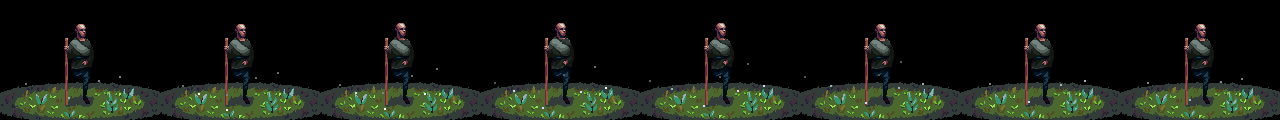
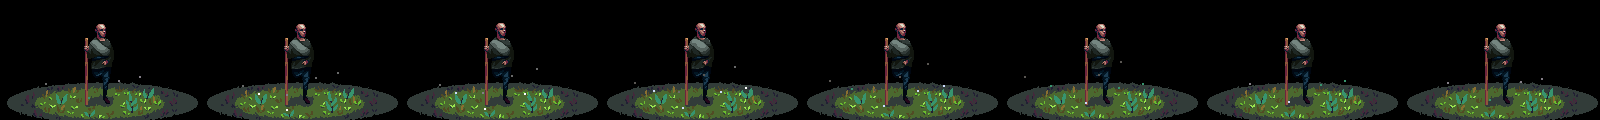
added opening scene

diff --git a/core/src/com/lovely/games/TheFirstGate.java b/core/src/com/lovely/games/TheFirstGate.java
@@ -163,6 +163,7 @@ public class TheFirstGate extends ApplicationAdapter implements Stage {
     private float levelTransitionTimer = 0;
     private boolean leaveLevel = false;
     private StonePrizeScene stonePrizeScene = null;
+    private NewGameScene newGameScene = null;
     private Map<String, Animation<TextureRegion>> guffImages;
     private boolean hasBossLevelSceneDone;
     private Sprite volumePointerSprite;
@@ -171,6 +172,7 @@ public class TheFirstGate extends ApplicationAdapter implements Stage {
     private boolean isHidePlayer;
     private BlockLike currentImageHeight = null;
     private Animation<TextureRegion> openingScene;
+    boolean isPlayingOpeningScene;
 
     @Override
 	public void create () {
@@ -461,7 +463,7 @@ public class TheFirstGate extends ApplicationAdapter implements Stage {
         doorCloseAnim = loadAnimation(assetManager.get("entity/door-open.png"), 6, 0.03f);
         pressureOnAnim = loadAnimation(assetManager.get("entity/pressure-on.png"), 4, 0.02f);
         pressureOffAnim = loadAnimation(assetManager.get("entity/pressure-on.png"), 4, 0.02f);
-        openingScene = loadAnimation(assetManager.get("player-large.png"), 8, 0.1f);
+        openingScene = loadAnimation(assetManager.get("player-large.png"), 8, 0.3f);
         doorCloseAnim.setPlayMode(Animation.PlayMode.REVERSED);
         pressureOffAnim.setPlayMode(Animation.PlayMode.REVERSED);
         guffImages = new HashMap<>();
@@ -479,6 +481,7 @@ public class TheFirstGate extends ApplicationAdapter implements Stage {
         currentSpell = "";
 
         stonePrizeScene = new StonePrizeScene(assetManager);
+        newGameScene = new NewGameScene(openingScene);
 
         font = loadFonts("fonts/kells.fnt");
 
@@ -817,14 +820,14 @@ public class TheFirstGate extends ApplicationAdapter implements Stage {
         updateCameraZoom();
         camera.update();
         batch.setProjectionMatrix(camera.combined);
-        if (!isMenu() || isBrightnessOption()) {
+        if ((!isMenu() || isBrightnessOption()) && !isPlayingOpeningScene) {
             mapRenderer.setView(camera);
             update();
         }
 //        screenFader.update(this);
 	    getInput();
 	    animationDelta = animationDelta + Gdx.graphics.getDeltaTime();
-        if (!isMenu() || isBrightnessOption()) {
+        if ((!isMenu() || isBrightnessOption()) && !isPlayingOpeningScene) {
             renderLightMasks();
         }
 		Gdx.gl.glClearColor(0, 0, 0, 1);
@@ -832,7 +835,7 @@ public class TheFirstGate extends ApplicationAdapter implements Stage {
 
 
 
-        if (!isLevelDirty && (!isMenu() || isBrightnessOption()) && !isViewDirty ) {
+        if (!isLevelDirty && (!isMenu() || isBrightnessOption()) && !isViewDirty && !isPlayingOpeningScene) {
             Vector2 threeDeeLinePos = playerPos.cpy().add(0, 0);
             mapRenderer.render();
             batch.setProjectionMatrix(camera.combined);
@@ -1020,7 +1023,15 @@ public class TheFirstGate extends ApplicationAdapter implements Stage {
             }
             batch.end();
         }
-        if (isMenu() && !isViewDirty) {
+        if (isPlayingOpeningScene) {
+            newGameScene.update(this);
+            batch.setProjectionMatrix(camera.combined);
+            batch.begin();
+            Vector2 pos = new Vector2(camera.position.x - 100, camera.position.y - 100);
+            newGameScene.render(batch, pos);
+            batch.end();
+        }
+        if (isMenu() && !isViewDirty && !isPlayingOpeningScene) {
             batch.setProjectionMatrix(camera.combined);
             batch.begin();
             titleSprite.setPosition(180, 300);
@@ -1555,7 +1566,8 @@ public class TheFirstGate extends ApplicationAdapter implements Stage {
                             startDialog("saveWarning", new DialogVerb("new-game"));
                         } else {
                             soundPlayer.resumeSounds();
-                            gotoState("new-game");
+                            //gotoState("new-game");
+                            startOpeningScene();
                             return;
                         }
                     }
@@ -1648,7 +1660,8 @@ public class TheFirstGate extends ApplicationAdapter implements Stage {
                     String chosenOption = conversation.getCurrentDialog().getChosenOption();
                     if (showSaveWarning) {
                         if (chosenOption.equals("new-game")) {
-                            gotoState("new-game");
+                            //gotoState("new-game");
+                            startOpeningScene();
                         } else {
                             gotoState("menu");
                         }
@@ -1890,6 +1903,7 @@ public class TheFirstGate extends ApplicationAdapter implements Stage {
             }
         } else {
             stonePrizeScene.reset();
+            newGameScene.reset();
         }
     }
 
@@ -1902,6 +1916,14 @@ public class TheFirstGate extends ApplicationAdapter implements Stage {
         screenFader.fadeScreen(inDirection, time, color);
     }
 
+    private void startOpeningScene() {
+        isPlayingOpeningScene = true;
+        isTitleMenu = false;
+        isHidePlayer = true;
+        newGameScene.reset();
+        soundPlayer.playSound("sound/new-game-1.ogg", playerPos);
+    }
+
     @Override
     public void gotoState(String state) {
         if (state.equals("new-game")) {
@@ -1910,9 +1932,10 @@ public class TheFirstGate extends ApplicationAdapter implements Stage {
             isTitleMenu = false;
             isHidePlayer = false;
             startLevel(levels.get(START_LEVEL_NUM), levels.get(START_LEVEL_NUM).getConnection("61"));
-            soundPlayer.playSound("sound/new-game-1.ogg", playerPos);
+
             currentSpell = "";
             saveEverything();
+
         }
         if (state.equals("menu")) {
             isTitleMenu = true;

diff --git a/core/src/com/lovely/games/NewGameScene.java b/core/src/com/lovely/games/NewGameScene.java
@@ -1,0 +1,69 @@
+package com.lovely.games;
+
+import com.badlogic.gdx.Gdx;
+import com.badlogic.gdx.graphics.g2d.Animation;
+import com.badlogic.gdx.graphics.g2d.Sprite;
+import com.badlogic.gdx.graphics.g2d.SpriteBatch;
+import com.badlogic.gdx.graphics.g2d.TextureRegion;
+import com.badlogic.gdx.math.Vector2;
+
+public class NewGameScene {
+
+    public static final float START_TIME_AMOUNT = 3.0f;
+    public static final float MIDDLE_TIME_AMOUNT = 3.0f;
+    public static final float END_TIME_AMOUNT = 2f;
+    public static final float TOTAL_TIME = (END_TIME_AMOUNT + MIDDLE_TIME_AMOUNT + START_TIME_AMOUNT);
+
+    Animation<TextureRegion> standing;
+    Sprite sprite;
+
+    float animTimer;
+    private float alpha;
+    boolean isDone;
+    Vector2 pos;
+
+    public NewGameScene(Animation<TextureRegion> standing) {
+        this.standing = standing;
+        sprite = new Sprite(standing.getKeyFrame(0));
+        sprite.setScale(2.0f);
+    }
+
+    public void reset() {
+        animTimer = 0;
+        sprite.setPosition(0, 0);
+        alpha = 0;
+        isDone = false;
+        pos = new Vector2(0, -40);
+    }
+
+    public void update(TheFirstGate theFirstGate) {
+        if (isDone) {
+            return;
+        }
+        animTimer = animTimer + Gdx.graphics.getDeltaTime();
+        if (animTimer < START_TIME_AMOUNT) {
+            alpha = animTimer / START_TIME_AMOUNT;
+            pos.y = pos.y + (Gdx.graphics.getDeltaTime() * 10f);
+        }
+        if (animTimer >= START_TIME_AMOUNT + MIDDLE_TIME_AMOUNT) {
+            alpha = END_TIME_AMOUNT - ((animTimer - START_TIME_AMOUNT - MIDDLE_TIME_AMOUNT) / END_TIME_AMOUNT);
+            pos.y = pos.y + (Gdx.graphics.getDeltaTime() * 10f);
+        }
+        if (animTimer > TOTAL_TIME) {
+            isDone = true;
+            theFirstGate.isPlayingOpeningScene = false;
+            theFirstGate.gotoState("new-game");
+        }
+    }
+
+    public void render(SpriteBatch batch, Vector2 cameraPos) {
+        if (!isDone) {
+            TextureRegion region = standing.getKeyFrame(animTimer, true);
+            sprite.setRegion(region);
+            sprite.setPosition(cameraPos.x + pos.x, cameraPos.y + pos.y);
+            sprite.setAlpha(alpha);
+            sprite.draw(batch);
+        }
+    }
+
+}

diff --git a/core/src/com/lovely/games/scene/SceneContainer.java b/core/src/com/lovely/games/scene/SceneContainer.java
@@ -290,6 +290,10 @@ public class SceneContainer {
                 .verb(new SendEventVerb("c"))
                 .build());
 
+        scenes.put("42", builder()
+                .verb(new PosterVerb("new-game-scene"))
+                .build());
+
         scenes.put("new-game", builder()
                 .verb(new GameControlVerb("new-game"))
                 .build());
